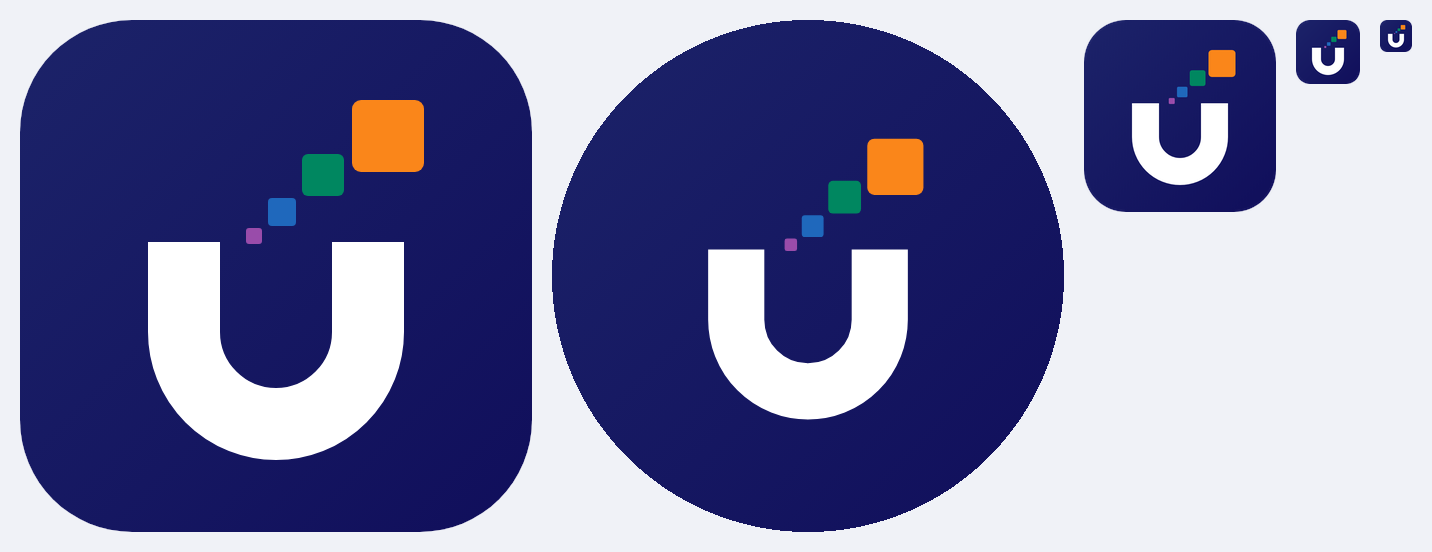
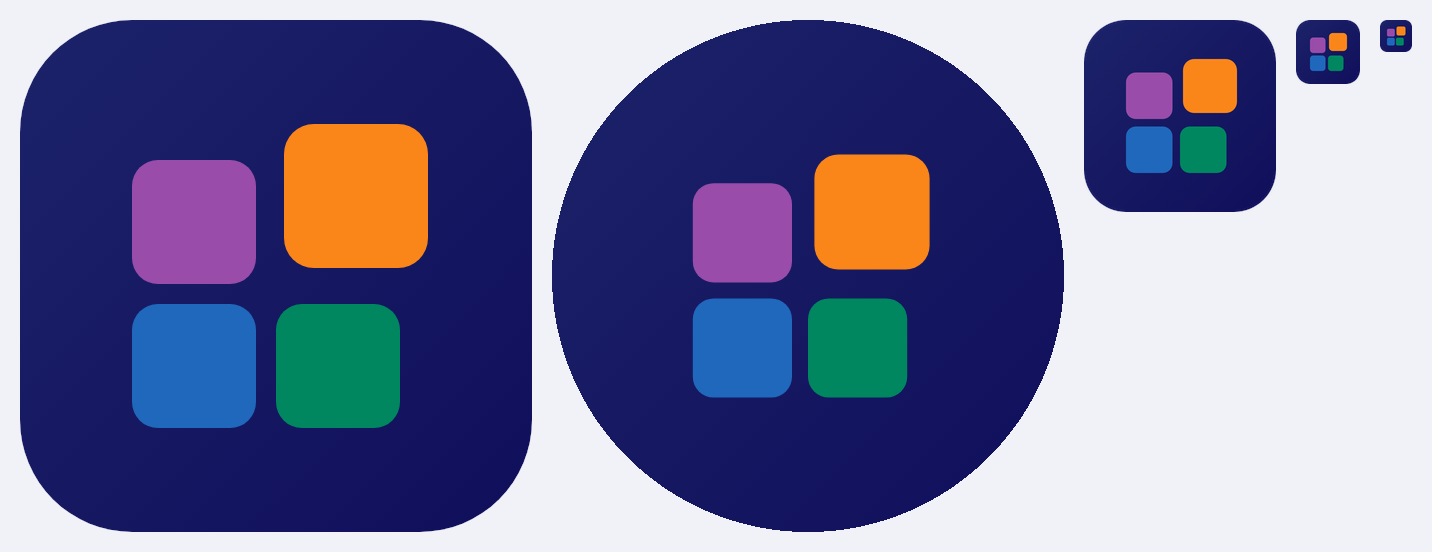
UAPA Suite: icono sin la U, con mosaicos de las cuatro apps
Cuatro mosaicos en los colores de SIES, Presupuesto, GTH y PopIn sobre
azul marino; el naranja, mayor y desplazado, retoma el motivo del logo.
Se regeneran PNG, maskable, apple-touch-icon y favicon.

Claude-Session: https://claude.ai/code/session_01GUQkd1MiyCDzUQV1cyA6wb

diff --git a/uapa_suite/README.md b/uapa_suite/README.md
@@ -45,11 +45,11 @@ si la URL está vacía, se usa el módulo interno con el mismo slug.
 
 ### Icono de la aplicación
 
-`static/img/icono/` trae el icono de UAPA Suite: la «U» blanca sobre azul marino y cuatro cuadritos con los
-colores de PopIn, GTH, Presupuesto y SIES. Incluye `icon.svg` (fuente), PNG de 192 y 512 px, versión
-*maskable* para Android, `apple-touch-icon.png` (180 px, opaco) y un favicon simplificado (`favicon.svg` y
-`favicon.ico`) que se lee bien a 16–32 px. El manifiesto (`/manifest.webmanifest`) permite instalar la suite
-en el teléfono o el escritorio.
+`static/img/icono/` trae el icono de UAPA Suite: cuatro mosaicos sobre azul marino, uno por aplicación
+(SIES, Presupuesto, GTH y PopIn); el naranja, más grande y desplazado hacia arriba, retoma los cuadritos del
+logo. Incluye `icon.svg` (fuente), PNG de 192 y 512 px, versión *maskable* para Android,
+`apple-touch-icon.png` (180 px, opaco) y el favicon (`favicon.svg`, `favicon.ico`). El manifiesto
+(`/manifest.webmanifest`) permite instalar la suite en el teléfono o el escritorio.
 
 ![Icono](docs/icono-vista-previa.png)
 
